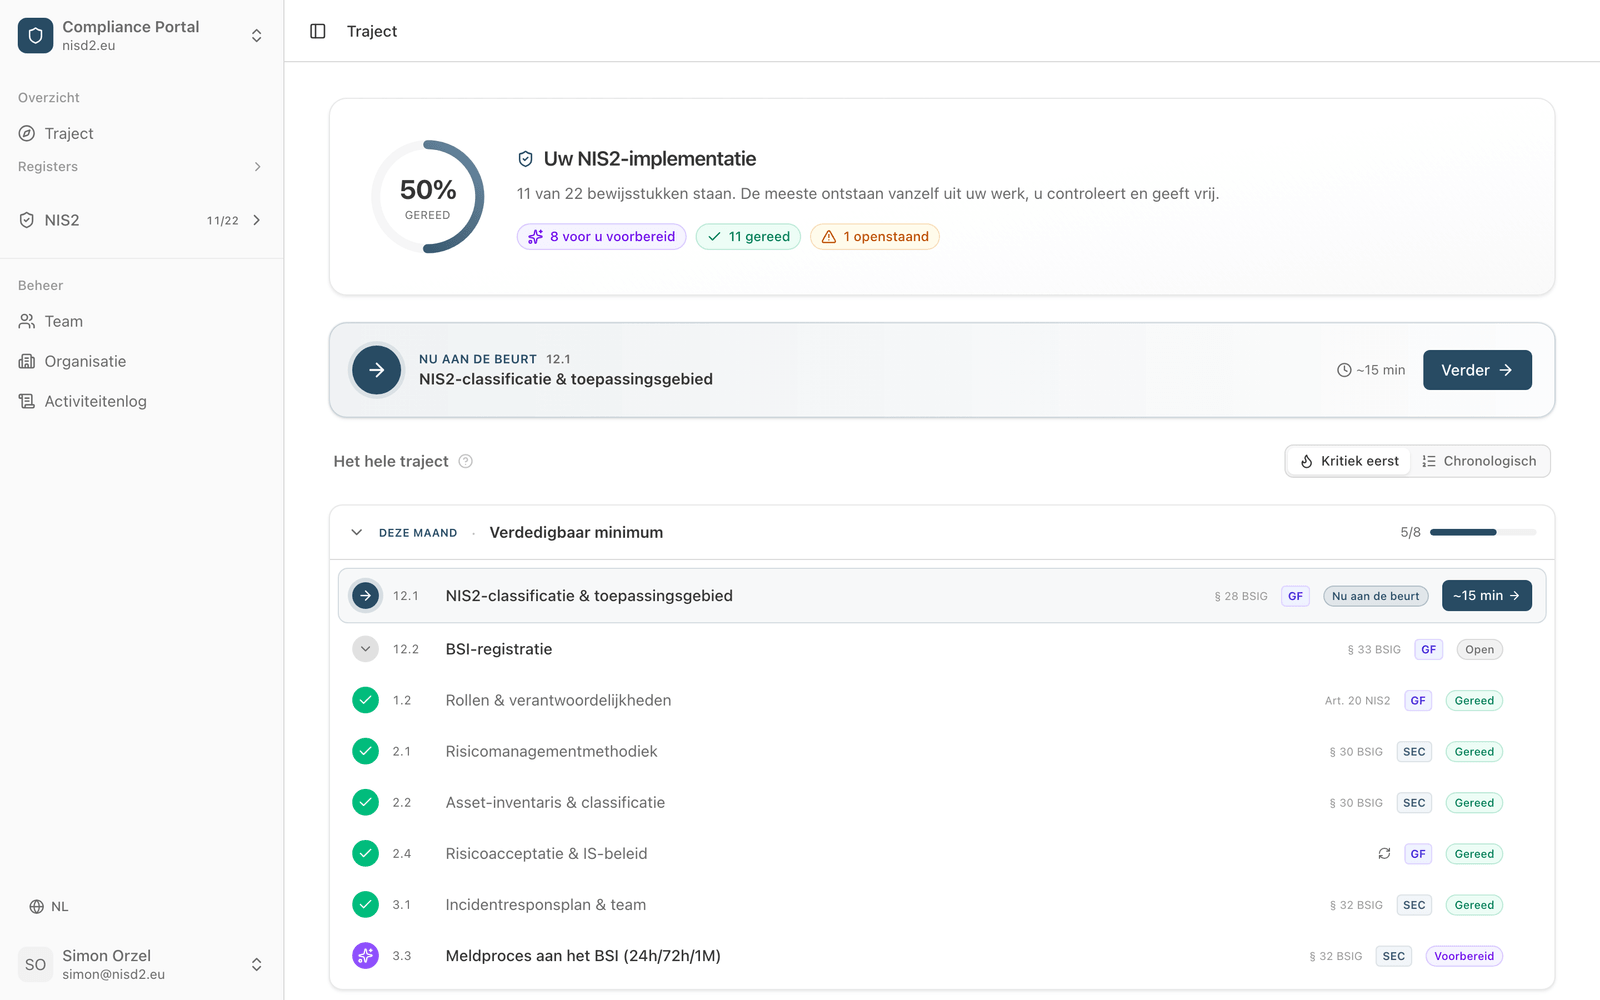
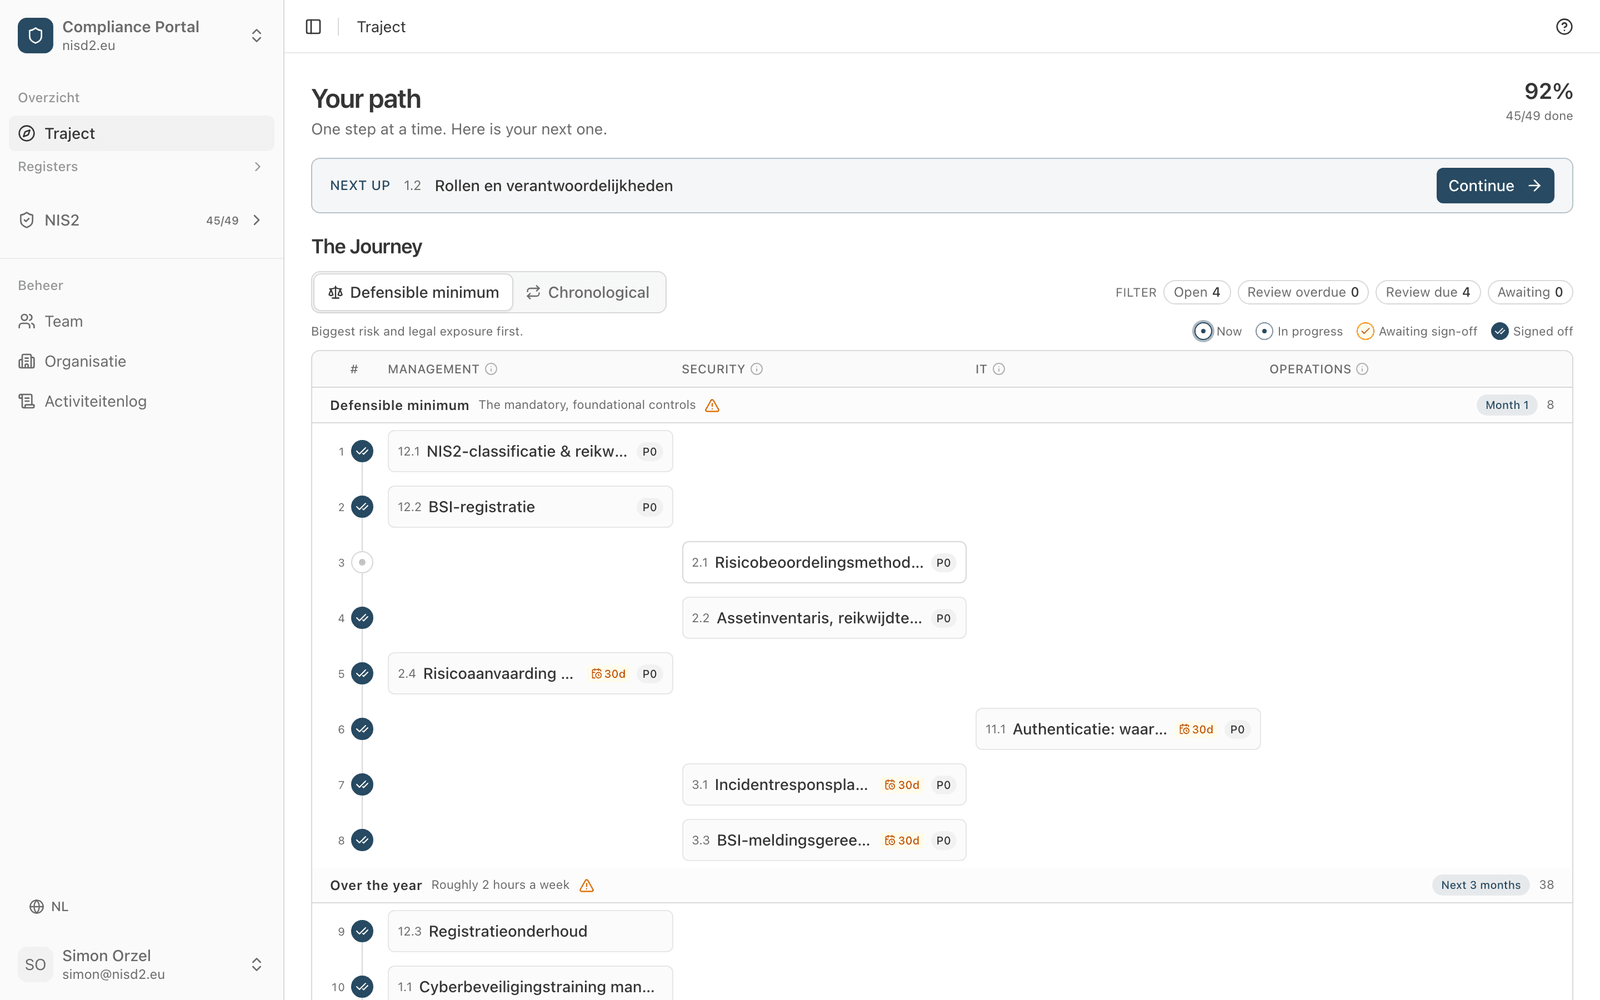
chore(landing): shoot the hero from the real journey, not the preview route
The landing hero was generated from /journey-preview, which is a design
playground carrying an unshipped redesign: its own board component (499 lines
against the shipped 803), its own copy, "Der ganze Weg" and "Kritisch zuerst"
where the product says "Die Reise" and "Belastbares Minimum". The page was
advertising a UI nobody can log in and find. All ten locales now come from the
real signed-in /journey.

Two things surfaced while shooting it. The portal breadcrumb fell through to
titleCase(segment), so a German session read "Journey" above a sidebar saying
"Weg"; it resolves portal.journey now, the same way /audit already did. And
the supplier preview route still rendered the old questionnaire intro after
the sub-page headers moved to supplierPortal.pages, so its hero showed copy
the real page no longer uses.

Supplier heroes re-shot against the corrected preview. 22 images in total.

diff --git a/app/[locale]/supplier-preview/page.tsx b/app/[locale]/supplier-preview/page.tsx
@@ -24,7 +24,7 @@ import { SAMPLE_CUSTOMERS, SAMPLE_PROFILE, SAMPLE_USER } from "./sample-data";
 export default async function SupplierPreviewPage() {
   if (process.env.NODE_ENV === "production") notFound();
   const nav = await getTranslations("supplierPortal.nav");
-  const t = await getTranslations("supplierPortal.questionnaire");
+  const pages = await getTranslations("supplierPortal.pages");
 
   return (
     <SidebarProvider defaultOpen>
@@ -44,7 +44,7 @@ export default async function SupplierPreviewPage() {
                 {nav("practices")}
               </h1>
               <p className="max-w-2xl text-sm text-muted-foreground">
-                {t("intro")}
+                {pages("practicesIntro")}
               </p>
             </header>
             <SecurityProfileForm

diff --git a/components/portal/PortalHeader.tsx b/components/portal/PortalHeader.tsx
@@ -71,6 +71,8 @@ export function PortalHeader({
       }
     } else if (segments[0] === "audit") {
       crumbs.push({ label: t("auditTrail"), href: undefined });
+    } else if (segments[0] === "journey") {
+      crumbs.push({ label: t("journey"), href: undefined });
     } else {
       crumbs.push({ label: titleCase(segments[0]), href: undefined });
     }
